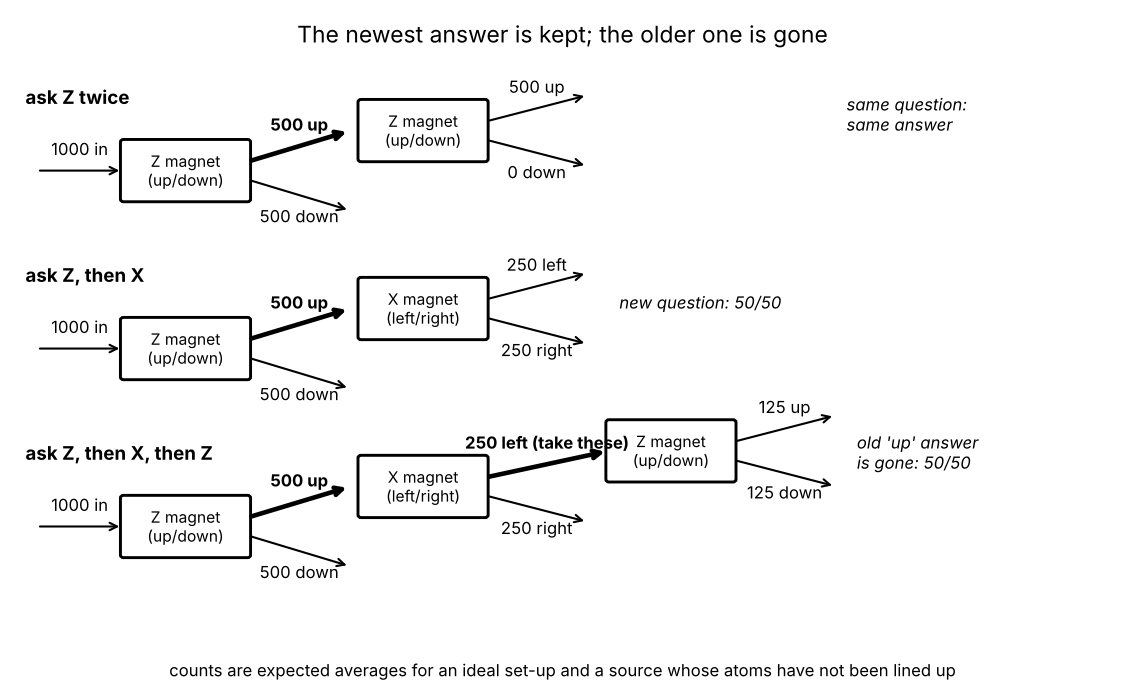
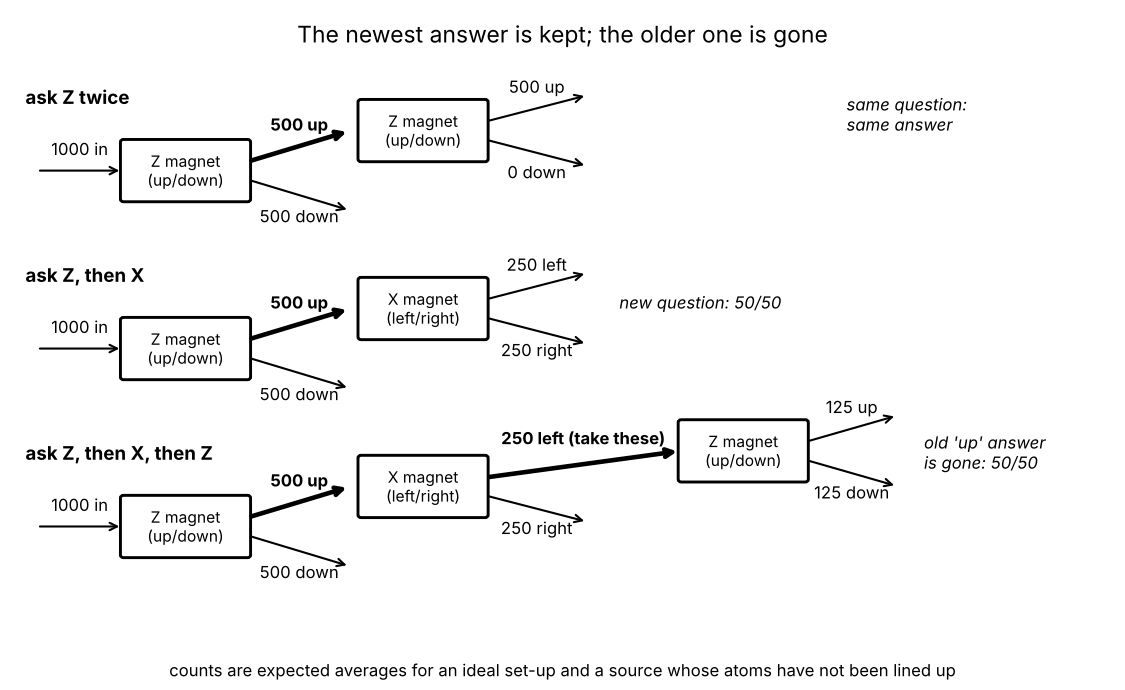
Tutor run: add verification outputs
Claude-Session: https://claude.ai/code/session_011EeWx5AEdppYiarvRbDBmd

Changed region(s): [[0.4044, 0.5783, 0.9333, 0.7304]]

diff --git a/work/20261008-075243-what-is-qm/checks/fig_b-three-magnets.py b/work/20261008-075243-what-is-qm/checks/fig_b-three-magnets.py
@@ -26,11 +26,11 @@ y=5.3; box(3.9,y+0.45,Zl); arrow(4.5,y+0.55,5.5,y+0.85,f"{zu*P(up,up):.0f} up");
 y=3.3; box(3.9,y+0.45,Xl); arrow(4.5,y+0.55,5.5,y+0.85,f"{zu*P(L,up):.0f} left"); arrow(4.5,y+0.35,5.5,y+0.05,f"{zu*P(R,up):.0f} right",dy=-0.33)
 # row3
 y=1.3; box(3.9,y+0.45,Xl); nl=zu*P(L,up)
-arrow(4.5,y+0.55,5.7,y+0.85,f"{nl:.0f} left (take these)",bold=True); arrow(4.5,y+0.35,5.5,y+0.05,f"{zu*P(R,up):.0f} right",dy=-0.33)
-box(6.3,y+0.85,Zl); arrow(6.9,y+0.95,7.9,y+1.25,f"{nl*P(up,L):.0f} up"); arrow(6.9,y+0.75,7.9,y+0.45,f"{nl*P(dn,L):.0f} down",dy=-0.33)
+arrow(4.5,y+0.55,6.4,y+0.85,f"{nl:.0f} left (take these)",bold=True,dy=0.18); arrow(4.5,y+0.35,5.5,y+0.05,f"{zu*P(R,up):.0f} right",dy=-0.33)
+box(7.0,y+0.85,Zl); arrow(7.6,y+0.95,8.5,y+1.25,f"{nl*P(up,L):.0f} up"); arrow(7.6,y+0.75,8.5,y+0.45,f"{nl*P(dn,L):.0f} down",dy=-0.33)
 ax.text(8.0,5.75,"same question:\nsame answer",fontsize=8,style="italic")
 ax.text(5.8,3.75,"new question: 50/50",fontsize=8,style="italic")
-ax.text(8.1,1.95,"old 'up' answer\nis gone: 50/50",fontsize=8,style="italic")
+ax.text(8.75,1.95,"old 'up' answer\nis gone: 50/50",fontsize=8,style="italic")
 ax.set_title("The newest answer is kept; the older one is gone",fontsize=11)
 fig.text(0.5,0.02,"counts are expected averages for an ideal set-up and a source whose atoms have not been lined up",ha="center",fontsize=8)
 fig.tight_layout(rect=(0,0.04,1,1)); fig.savefig(out,dpi=150); print("saved",out)

diff --git a/work/20261008-075243-what-is-qm/checks/fig_a-one-vs-both.py b/work/20261008-075243-what-is-qm/checks/fig_a-one-vs-both.py
@@ -25,7 +25,7 @@ m = X > 3
 ins.plot(X[m], Pb[m], 'k-', lw=1.8); ins.plot(X[m], P2[m], color='tab:blue', ls='--', lw=1.3)
 ins.plot(X[m], P1[m], color='0.45', lw=1.0)
 ins.set_xlim(3, 8); ins.set_ylim(0, 0.3); ins.tick_params(labelsize=8)
-ins.set_title("zoom, right side (vertical scale stretched)", fontsize=8.5)
+ins.set_title("zoom (vertical scale stretched)", fontsize=8.5)
 ins.annotate("one-slit side band\n(peak 0.047 at 5.7)", xy=(5.72, 0.047), xytext=(6.25, 0.235), fontsize=7.5,
              arrowprops=dict(arrowstyle='->', lw=0.8))
 ins.annotate("X = 4: dark with\none slit too", xy=(4, 0.003), xytext=(3.35, 0.235), fontsize=7.5,

diff --git a/work/20261008-075243-what-is-qm/verify-A.md b/work/20261008-075243-what-is-qm/verify-A.md
@@ -1,0 +1,31 @@
+VERDICT: revise
+
+| # | Claim (short quote) | Result | Evidence |
+|---|---|---|---|
+| 1 | "alike, the total is 2 and the chance 4 ... total is 0" | PASS | checks/check_A_01.py: (1+1)^2=4, (1-1)^2=0, chances added = 2; general \|1+e^{iφ}\|^2 = 2+2cos φ |
+| 2 | "wide bright band in the middle with much fainter bands further out" (one slit) | PASS | checks/check_A_02.py: numerical Fraunhofer integral for d=4a matches cos²(πX)·sinc²(πX/4) to 1e-6; one-slit maxima only at 0 and ±5.72, side-band peak 0.047; figure values P1(0.5)=0.950, P1(1.5)=0.615 |
+| 3 | "where with both slits open almost no electrons land (none in the ideal set-up)" | PASS | checks/check_A_03.py: ideal P_both=0 at half-integer X; with a 5% speed spread P_both(0.5)=0.008 vs P1(0.5)=0.95 |
+| 4 | "At the dark stripes ... electrons now land. Opening a second slit took hits away." (and the Check-yourself question) | FAIL | checks/check_A_03.py: true at the interference dark lines (X=±0.5, ±1.5, ... P1 from 0.95 down to 0.004), but not at every dark spot. P_both = 4·P1·cos²(πX), so every zero of the one-slit pattern is dark with both slits too: at X=±4, ±8 (d=4a) a dark band (max 0.2% of the central peak) stays dark with one slit, and there opening the second slit gives more hits, not fewer (P_both ≥ P1 for 3.83<X<4.17). The Check-yourself question as worded ("a spot that stays dark when both slits are open") has the answer "it depends" at those spots. Correct statement: "At the dark stripes near the middle, where with both slits open almost no electrons land (none in the ideal set-up), electrons now land." Check question: "At one of the dark stripes near the middle of the screen, ..." |
+| 5 | "faster electrons give narrower stripes" / "faster, shorter" | PASS | checks/check_A_04.py: relativistic λ=h/p, spacing λL/d; d(spacing)/dv<0 for v from 1 km/s to 0.99c; 50 keV: 5.36 pm, 100 keV: 3.70 pm |
+| 6 | "the pattern is, ideally, the two one-slit patterns added"; "partly tells ... only partly fades"; "can't cancel; their chances just add" | PASS | checks/check_A_05.py: tracing out a recorder with overlap γ gives fringe visibility = γ (1.0, 0.5, 0.2, 0.0); γ=0 gives exactly P_L+P_R |
+| 7 | "each ball uses one slit, so a second slit could only add hits" | PASS | checks/check_A_06.py: P_L+P_R ≥ P_L for any non-negative chances; the quantum model has P_both < P1 at the dark lines |
+| 8 | "the same rule applied to hydrogen predicts the colours it emits" | PASS | checks/check_A_07.py: Schrödinger levels with reduced mass give Balmer lines 656.470, 486.274, 434.173, 410.294 nm vs NIST 656.469, 486.271, 434.169, 410.289 nm (agree to 1e-5) |
+| 9 | "Combine all routes through the left slit into one hand ... alike, bright; opposite, dark" | PASS | checks/check_A_08.py: explicit path sum (source → slit point → screen) reproduces the formula (max diff 0.009 on a scale of 4); angle between hands 0° at X=0, 1 and 180° at X=0.5, 1.5 |
+| 10 | "for a heavy object ... only routes very close to it matter" | PASS | checks/check_A_08.py: the band of routes that matter (Fresnel zone) at 100 m/s over 1 m + 1 m: electron 6 mm, C60 5 µm, 1 µm dust grain 0.2 nm |
+| 11 | Pilot wave: "goes through one slit on a definite bent path, kept away from the dark lines", chance from unknown start | PASS | checks/check_A_09.py: 3000 Bohmian trajectories, two Gaussian slits; 0 cross the symmetry line; final positions match \|ψ\|² (KS p=0.51); 1 trajectory within ±0.5 of a dark line (\|ψ\|² predicts 0.3) |
+| 12 | Objective collapse: "extremely rarely for one electron ... almost at once" for the screen | PASS | checks/check_A_10.py: GRW λ=1e-16/s: electron collapse probability during flight ~7e-28; 1e23 nucleons: 1e-7 s (Adler rate 1e-8/s: even faster). Needs about 1e20 or more nucleons displaced by the detection to be "almost at once" at GRW's rate |
+| 13 | "a dust grain shows no stripes in practice because air and light record its position constantly" | PASS | checks/check_A_11.py: 10 µm grain in air: 9e17 collisions/s, each resolving position to ~2e-11 m, so decoherence in ~1e-18 s |
+| 14 | "After thousands of electrons the dots form bright and dark stripes" | PASS | checks/check_A_12.py: at N=1000, 578 dots within ±0.15 of bright lines vs 44 near dark lines; at N=10 no pattern (4 vs 1) |
+| 15 | Figure note: "a few dots land even far from the centre" | PASS | checks/check_A_12.py: 5.0% of the probability lies at \|X\|>4 (sample: 4.8%) |
+
+Passed: 14 of 15.
+
+## Figures
+- a-dots-buildup: figures/a-dots-buildup.png (cumulative 10 / 100 / 1,000 / 10,000 dots, seed 12345, sampled from the stated P(X) over -8..8; dot size shrinks per panel)
+- a-one-vs-both: figures/a-one-vs-both.png (three curves as specified; arrows and open circles mark the dark stripes at ±0.5, ±1.5. An inset with a stretched vertical scale shows the one-slit side bands (peak 0.047 at 5.7), which are otherwise only about 1% of the plot height. It also marks X=4, where the both-slit pattern is dark and the one-slit pattern is dark too, so the figure does not imply that every dark spot lights up with one slit)
+
+## Notes
+- The one FAIL is about scope, not the physics of the central dark stripes. Adding "near the middle" to the sentence and to the Check-yourself question fixes it. The single-slit zeros at X=±4, ±8 only appear because d=4a was chosen for the figure; any d/a ratio has such points somewhere.
+- Not checked by computation (historical claims). They agree with the standard record: 1976 biprism (Merli, Missiroli, Pozzi), 1989 (Tonomura et al.), 2013 real slits (Bach et al.), and Feynman's path-integral paper (Rev. Mod. Phys., 1948).
+- Dust grain: decoherence is a correct reason. As a second reason, a 10 µm grain's own wavelength at thermal speed is ~1e-17 m, so its stripes (~1e-14 m for d=1 mm, L=1 m) would be far too fine to see anyway. The text is not wrong, but it gives only one of the two reasons.
+- Objective collapse "almost at once" assumes the detection displaces a macroscopic number of nucleons. That is standard for GRW, but it is an extra assumption.
